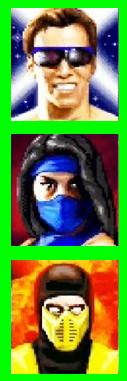
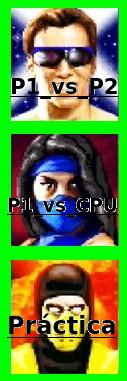
TP3: En la pantalla de eleccion de personajes de pueden elegir aleatoriamente el personaje2 cuando el modo de juego es P1_vs_CPU o Practica.

diff --git a/branches/taller-tp3/src/menus/Botonera.cpp b/branches/taller-tp3/src/menus/Botonera.cpp
@@ -97,6 +97,7 @@ Botonera::Botonera(string tipo, int cant_filas, int cant_columnas, Posicion* pos
 	this->tipoDeControl_jugador2 = tipoDeControl_jugador2;
 	this->modo_juego_elegido = modo_juego_elegido;
 	this->controladorBotonera = new ControladorBotonera(this->cant_filas, this->cant_columnas);
+	this->elegirPosicionAleatoriamente = true;
 
 }
 
@@ -140,18 +141,31 @@ void Botonera::manejarEventoJugador(SDL_Event evento) {
     	if( this->modo_juego_elegido == "P1_vs_P2"){
     		this->controladorBotonera->identificarOrdenJoystick(this->posicionEnfocadaDelJugador2, JOYSTICK2MENU);
     	}
+		else
+		{
+			if ( this->elegirPosicionAleatoriamente )
+			{
+				this->posicionEnfocadaDelJugador2 = this->controladorBotonera->posicionarAleatoriamente();
+				this->elegirPosicionAleatoriamente = false;
+			}
+		}
 	}else{
 		//Si se presiona una tecla
 		if ( evento.key.repeat == 0 )
 		{
 			this->controladorBotonera->identificarOrdenJugador1(this->posicionEnfocadaDelJugador1);
-			/* TODO descomentar cuando se implemente la forma de elegirse aleatoriamente
-			 * el personaje 2 cuando se juega con la CPU o es en modo practica
-			 */
-			//if( this->modo_juego_elegido == "P1_vs_P2")
-			//{
-			this->controladorBotonera->identificarOrdenJugador2(this->posicionEnfocadaDelJugador2);
-			//}
+			if( this->modo_juego_elegido == "P1_vs_P2")
+			{
+				this->controladorBotonera->identificarOrdenJugador2(this->posicionEnfocadaDelJugador2);
+			}
+			else
+			{
+				if ( this->elegirPosicionAleatoriamente )
+				{
+					this->posicionEnfocadaDelJugador2 = this->controladorBotonera->posicionarAleatoriamente();
+					this->elegirPosicionAleatoriamente = false;
+				}
+			}
 		}
 	}
 

diff --git a/branches/taller-tp3/src/menus/ControladorBotonera.cpp b/branches/taller-tp3/src/menus/ControladorBotonera.cpp
@@ -10,6 +10,8 @@
 #include <SDL2/SDL_keyboard.h>
 #include <SDL2/SDL_scancode.h>
 #include <SDL2/SDL_stdinc.h>
+#include <cstdlib>
+#include <ctime>
 #include <map>
 #include <string>
 
@@ -135,4 +137,16 @@ void ControladorBotonera::posicionarDerecha(Posicion* unaPosicionEnfocada) {
 
 void ControladorBotonera::elegir(Posicion* unaPosicionEnfocada) {
 	unaPosicionEnfocada->elegir();
+}
+
+Posicion* ControladorBotonera::posicionarAleatoriamente()
+{
+	srand(time(NULL));
+	int posX_rand = rand()%this->cant_columnas;
+	int posY_rand = rand()%this->cant_filas;
+
+	Posicion* posicionAleatoria = new Posicion(posX_rand, posY_rand);
+	posicionAleatoria->elegir();
+
+	return posicionAleatoria;
 }

diff --git a/branches/taller-tp3/src/menus/PantallaSeleccionarPersonaje.cpp b/branches/taller-tp3/src/menus/PantallaSeleccionarPersonaje.cpp
@@ -86,12 +86,12 @@ void PantallaSeleccionarPersonaje::iniciar() {
 				}
 				botoneraPersonajes->manejarEventoJugador(evento);
 				botoneraPersonajes->actualizarModelo(&salirEleccionPersonajes);
-			    renderText = cajaDeTexto->manejarEvento(&inputText, evento);
+			    //renderText = cajaDeTexto->manejarEvento(&inputText, evento);
 			}
 
 			botoneraPersonajes->dibujar();
 			//TODO falta sincronizar con el screen de la botonera
-			cajaDeTexto->dibujar(renderText, inputText);
+			//cajaDeTexto->dibujar(renderText, inputText);
 
 	        frameTime = SDL_GetTicks() - frameStart;
 

diff --git a/branches/taller-tp3/src/menus/Botonera.h b/branches/taller-tp3/src/menus/Botonera.h
@@ -47,6 +47,7 @@ private:
 	string tipoDeControl_jugador2;
 	string modo_juego_elegido;
 	ControladorBotonera* controladorBotonera;
+	bool elegirPosicionAleatoriamente;
 public:
 	Botonera(string tipo, int cant_filas, int cant_columnas, Posicion* posicion, string tipoDeControl_jugador1, string tipoDeControl_jugador2, string modo_juego_elegido="");
 	bool loadMedia(string path_imagen, string path_imagen2, string path_imagen3);

diff --git a/branches/taller-tp3/src/menus/ControladorBotonera.h b/branches/taller-tp3/src/menus/ControladorBotonera.h
@@ -22,6 +22,7 @@ public:
 	void identificarOrdenJugador1(Posicion* unaPosicionEnfocadaDelJugador1);
 	void identificarOrdenJugador2(Posicion* unaPosicionEnfocadaDelJugador2);
 	void identificarOrdenJoystick(Posicion* unaPosicionEnfocada, JoyNumberMenu numeroJoystick);
+	Posicion* posicionarAleatoriamente();
 private:
 	void posicionarArriba(Posicion* unaPosicionEnfocada);
 	void posicionarAbajo(Posicion* unaPosicionEnfocada);
